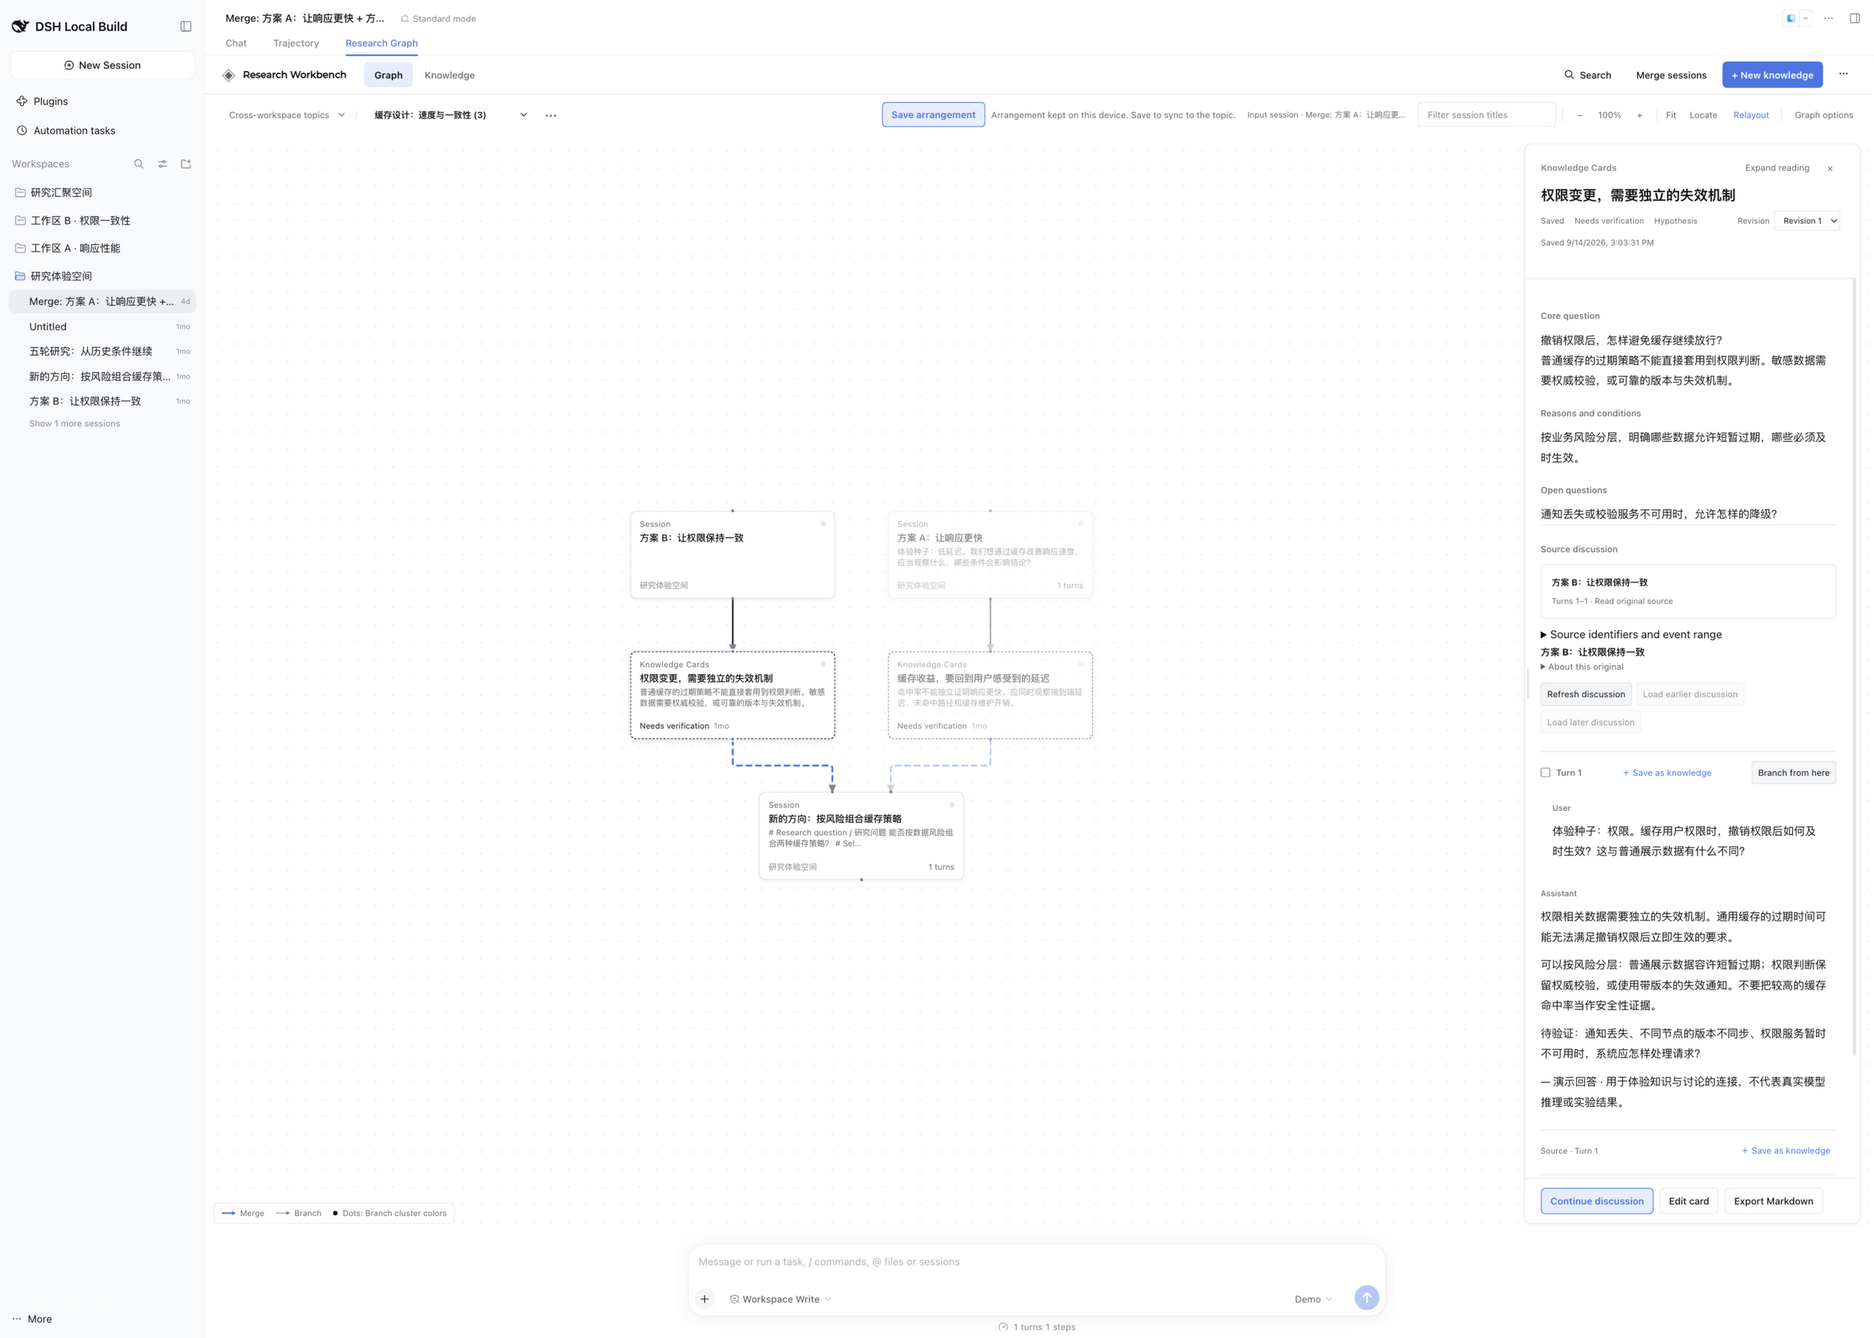
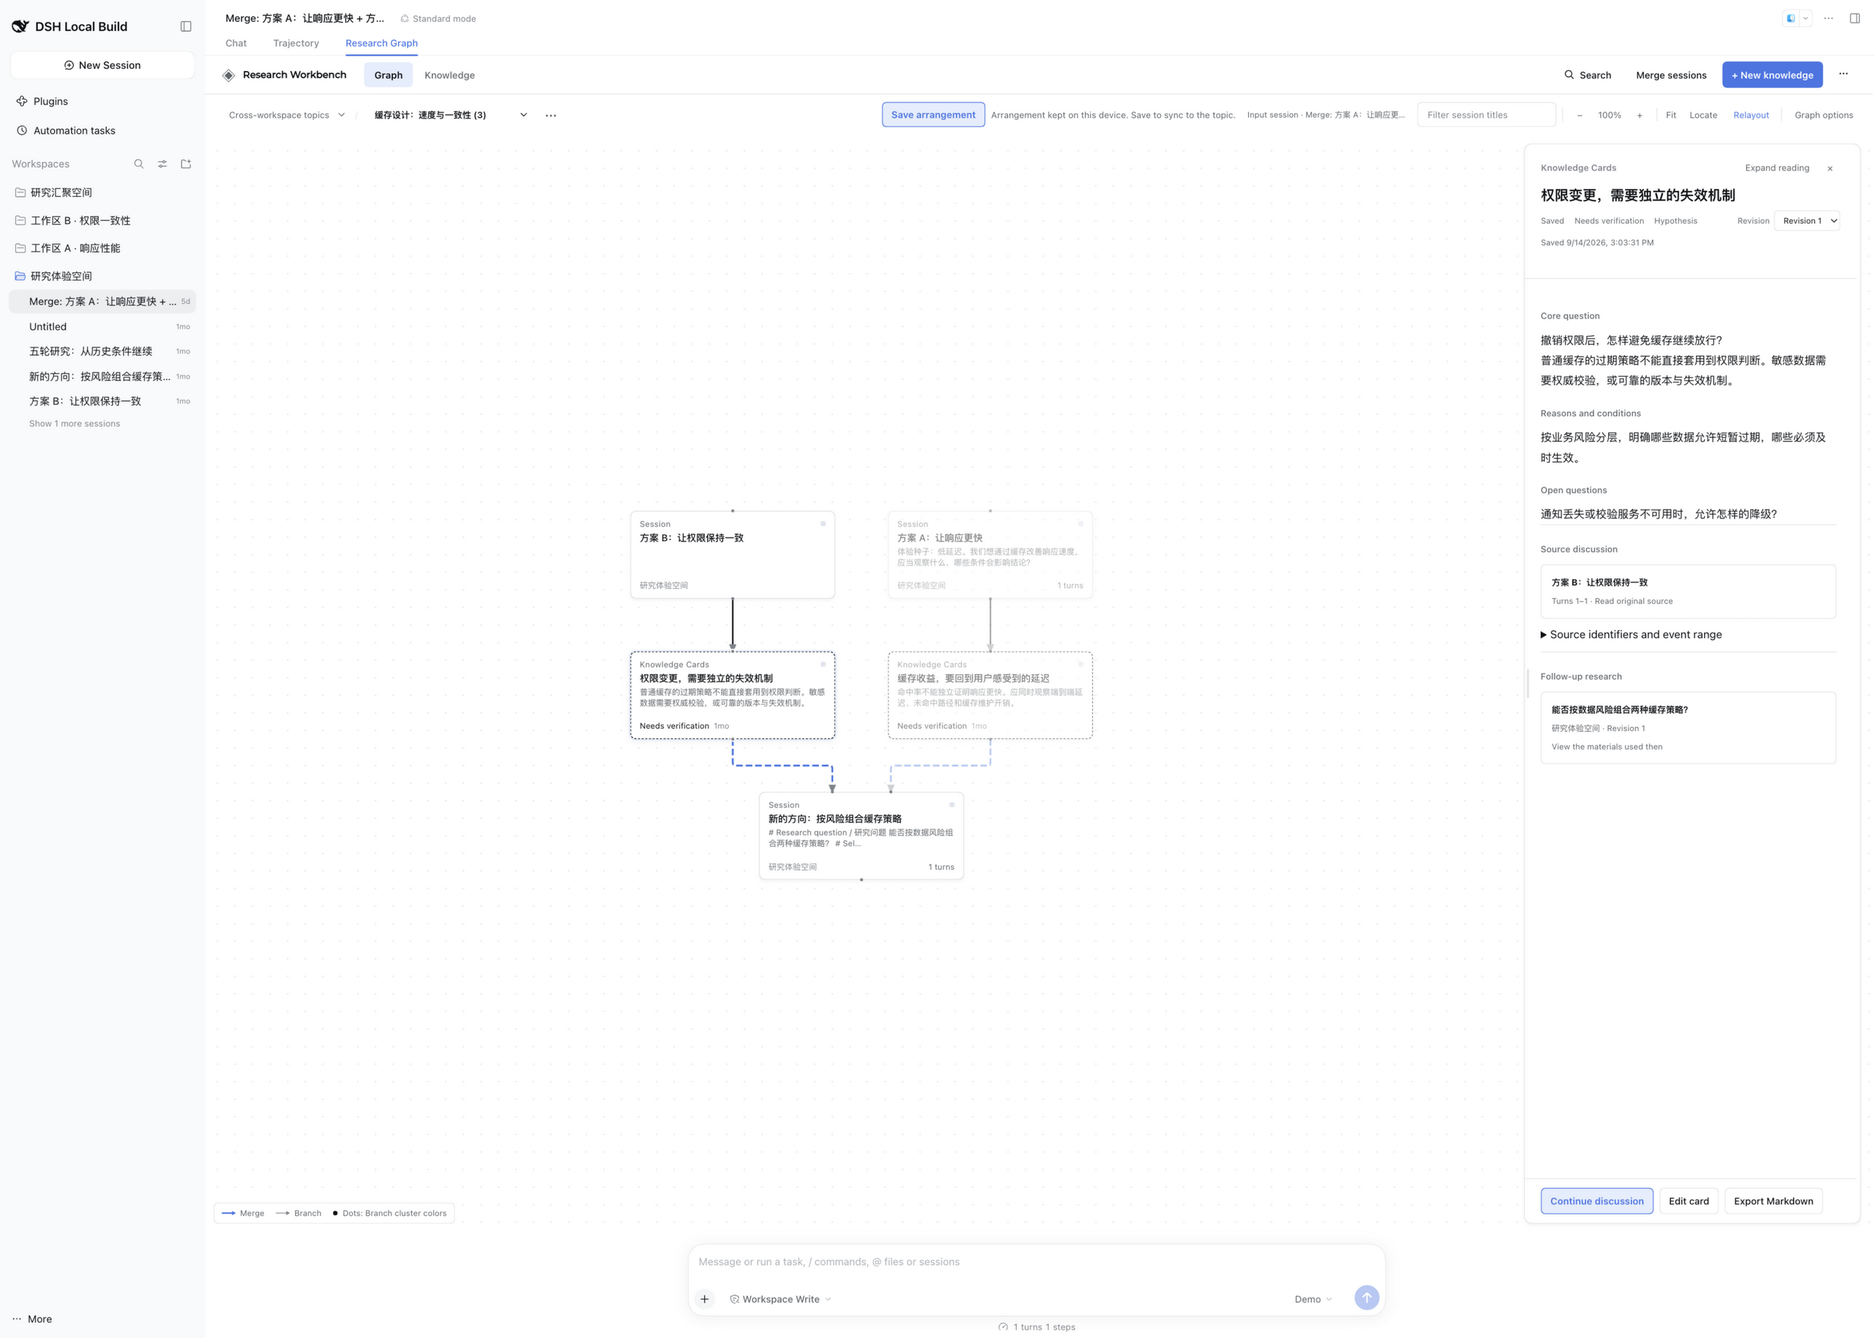
docs: prepare the 0.2.1-rc.1 release notes and screenshot
Point the bilingual READMEs and user guides at plugin 0.2.1-rc.1 on
DSH 0.2.1-rc.1: version tables gain the new row (the 0.2.1-alpha.5 row
drops its current-release note), quick-start and install commands,
host launcher links, and the adaptation paragraph describe this line's
first adaptation with the schemastery range moving to stable ~3.18.5.
Re-capture the README workbench hero on this build (2560x1828,
cross-workspace topic graph with a knowledge card reading panel) and
add the release acceptance record.

Changed region(s): [[0.8125, 0.5925, 1.0, 0.8419], [0.8125, 0.4677, 0.9062, 0.5613]]

diff --git a/docs/user-guide.md b/docs/user-guide.md
@@ -15,10 +15,10 @@ Detailed installation, research workflows, troubleshooting, and limits for DSH R
 
 ## Quick start
 
-Requires **DeepSeek Harness 0.2.1-alpha.5**, Node.js `^22.19.0 || >=24.0.0`, and `pnpm` on your `PATH`. Research Graph runs as a plugin inside DSH Web; check [Compatibility](#compatibility) before installing on another Host version. These commands assume `dsh` is on your `PATH`; see [Install](#install) for `npx` and source-checkout commands. Stop any running `dsh web` before installing.
+Requires **DeepSeek Harness 0.2.1-rc.1**, Node.js `^22.19.0 || >=24.0.0`, and `pnpm` on your `PATH`. Research Graph runs as a plugin inside DSH Web; check [Compatibility](#compatibility) before installing on another Host version. These commands assume `dsh` is on your `PATH`; see [Install](#install) for `npx` and source-checkout commands. Stop any running `dsh web` before installing.
 
 ```sh
-dsh plugin --profile web add @benz-ai-x/dsh-research-graph@0.2.1-alpha.5
+dsh plugin --profile web add @benz-ai-x/dsh-research-graph@0.2.1-rc.1
 dsh web
 ```
 
@@ -28,7 +28,7 @@ Open the one-time authenticated URL printed by the command; do not share its tok
 2. Select a node, read **Original**, and choose **Save as knowledge** on a completed turn.
 3. Open the saved card in **Knowledge**, inspect its sources, and choose **Continue discussion** to preview the materials for another question.
 
-Current plugin **0.2.1-alpha.5** uses npm tag `next`; the pinned command avoids installing an incompatible older package. See [Install and upgrade](#install) for local archives and migration from the previous package name.
+Current plugin **0.2.1-rc.1** uses npm tag `next`; the pinned command avoids installing an incompatible older package. See [Install and upgrade](#install) for local archives and migration from the previous package name.
 
 ## Research workflow
 
@@ -59,9 +59,9 @@ Source discovery and tool execution come from your selected DSH environment. Res
 
 | Package release | DeepSeek Harness | Node.js | Verification |
 |---|---|---|---|
-| `@benz-ai-x/dsh-research-graph@0.2.1-alpha.5` | `0.2.1-alpha.5` | `^22.19.0 \|\| >=24.0.0` | Real Host/Client types, integration tests and packed-profile runtime acceptance |
+| `@benz-ai-x/dsh-research-graph@0.2.1-rc.1` | `0.2.1-rc.1` | `^22.19.0 \|\| >=24.0.0` | Real Host/Client types, integration tests and packed-profile runtime acceptance |
 
-Current prerelease **0.2.1-alpha.5** targets **DSH 0.2.1-alpha.5**: the first adaptation of this DSH line, so the plugin takes the full target version and every pinned `@deepseek-ai/dsh-*` dependency follows it. This is a compatibility release with no user-facing feature change: it carries the Host-contract adaptation (historical Branch adoption through `agents.resume`, Gateway owner-Peer invocations) and absorbs upstream's additive changes between alpha.2 and alpha.5 without touching the research-data model, persistence schema, canvas geometry, or Host service behavior. See the [release acceptance record](reviews/release-0.2.1-alpha.5.md) for official-package verification and known limitations.
+Current prerelease **0.2.1-rc.1** targets **DSH 0.2.1-rc.1**: the first adaptation of this DSH line, so the plugin takes the full target version and every pinned `@deepseek-ai/dsh-*` dependency follows it (`@deepseek-ai/schemastery` moves to the stable `~3.18.5` range upstream now declares). This is a compatibility release with no user-facing change: upstream's alpha.5→rc.1 delta is its release commit plus the vendor line moving to stable, with no source change. It carries the earlier Host-contract adaptation (historical Branch adoption through `agents.resume`, Gateway owner-Peer invocations) unchanged; the research-data model, persistence schema, canvas geometry, and Host service behavior are untouched. See the [release acceptance record](reviews/release-0.2.1-rc.1.md) for official-package verification and known limitations.
 
 In the DSH-aligned release line, the first plugin adaptation uses the full target DSH version. Further plugin releases for the same DSH prerelease append one positive revision number: plugin `0.1.5-rc.2.1` targets DSH `0.1.5-rc.2`, followed by plugin `0.1.5-rc.2.2`. Direct DSH dependencies retain the target DSH version. The previous package is `@benz-ai-x/dsh-client-ui-session-graph`; its tags and artifacts keep that name.
 
@@ -201,16 +201,16 @@ Confirming creates an independent Session and sends the frozen preview through n
 
 ## Install
 
-The [DSH plugin manager](https://github.com/deepseek-ai/deepseek-harness/blob/dsh-v0.2.1-alpha.5/apps/cli/reference/README.md#plugin-management) invokes `pnpm`, which must be on your `PATH`. Use the launcher for your matching DSH installation throughout the commands below:
+The [DSH plugin manager](https://github.com/deepseek-ai/deepseek-harness/blob/dsh-v0.2.1-rc.1/apps/cli/reference/README.md#plugin-management) invokes `pnpm`, which must be on your `PATH`. Use the launcher for your matching DSH installation throughout the commands below:
 
 - Installed CLI: use `dsh`.
-- npm launcher: replace `dsh` with `npx @deepseek-ai/dsh@0.2.1-alpha.5`.
-- Source checkout: build the `dsh-v0.2.1-alpha.5` checkout using the [upstream setup](https://github.com/deepseek-ai/deepseek-harness/blob/dsh-v0.2.1-alpha.5/README.md#run-from-source), run from that checkout, and replace `dsh` with `pnpm dsh`.
+- npm launcher: replace `dsh` with `npx @deepseek-ai/dsh@0.2.1-rc.1`.
+- Source checkout: build the `dsh-v0.2.1-rc.1` checkout using the [upstream setup](https://github.com/deepseek-ai/deepseek-harness/blob/dsh-v0.2.1-rc.1/README.md#run-from-source), run from that checkout, and replace `dsh` with `pnpm dsh`.
 
 Install the published npm package into the `web` profile:
 
 ```sh
-dsh plugin --profile web add @benz-ai-x/dsh-research-graph@0.2.1-alpha.5
+dsh plugin --profile web add @benz-ai-x/dsh-research-graph@0.2.1-rc.1
 ```
 
 Confirm that the resolved profile contains the bundle:
@@ -227,7 +227,7 @@ The product is now **DSH Research Graph · 研图**, and the repository is `benz
 
 ```sh
 dsh plugin --profile web remove @benz-ai-x/dsh-client-ui-session-graph
-dsh plugin --profile web add @benz-ai-x/dsh-research-graph@0.2.1-alpha.5
+dsh plugin --profile web add @benz-ai-x/dsh-research-graph@0.2.1-rc.1
 dsh web
 ```
 
@@ -245,7 +245,7 @@ dsh plugin --profile web remove @benz-ai-x/dsh-research-graph
 
 Restart the target `web` profile after installation or removal. A running process does not watch its profile dependency list.
 
-Session, LLM, and browser runtime services remain owned by the selected dsh profile. The plugin declares its Typert protocol dependency explicitly, with the matching LLM as a peer dependency. The offline recovery command bundles its format catalog and libraries so it also works before the Host starts. All directly referenced `@deepseek-ai/dsh-*` packages are pinned to the target DSH version (`0.2.1-alpha.5` for plugin `0.2.1-alpha.5`).
+Session, LLM, and browser runtime services remain owned by the selected dsh profile. The plugin declares its Typert protocol dependency explicitly, with the matching LLM as a peer dependency. The offline recovery command bundles its format catalog and libraries so it also works before the Host starts. All directly referenced `@deepseek-ai/dsh-*` packages are pinned to the target DSH version (`0.2.1-rc.1` for plugin `0.2.1-rc.1`).
 
 ## Use the graph
 
@@ -317,7 +317,7 @@ See the [discussion search browser acceptance record and screenshots](reviews/pr
 <a id="enable-discussion-search"></a>
 ### Enable discussion search
 
-DSH `0.2.1-alpha.5` disables full-text indexing by default. If Research Graph reports **Full-text indexing is not enabled**, add this override to the active profile's `cordis.patch.yml` (for the web profile, `$DSH_HOME/profiles/web/cordis.patch.yml`):
+DSH `0.2.1-rc.1` disables full-text indexing by default. If Research Graph reports **Full-text indexing is not enabled**, add this override to the active profile's `cordis.patch.yml` (for the web profile, `$DSH_HOME/profiles/web/cordis.patch.yml`):
 
 ```yaml
 - id: session-query-sqlite

diff --git a/docs/reviews/release-0.2.1-rc.1.md b/docs/reviews/release-0.2.1-rc.1.md
@@ -1,0 +1,32 @@
+# DSH Research Graph 0.2.1-rc.1 release acceptance
+
+This is the first adaptation of the DSH `0.2.1-rc.1` line: per the release policy the plugin takes the full target version (`0.2.1-rc.1`) and every direct `@deepseek-ai/dsh-*` dependency follows it. It is a pure compatibility release: upstream's `dsh-v0.2.1-alpha.5..dsh-v0.2.1-rc.1` delta is the release commit plus the vendor line moving to stable — 355 files change exactly one version line each and no source file moves — so the plugin needed no code adaptation, carried over from [PR #70](https://github.com/benz-ai-x/dsh-research-graph/pull/70) as merged (see below) with only pins and documentation updated.
+
+Version pins: `@deepseek-ai/schemastery` follows the published range to the stable `~3.18.5` (upstream declared `~3.18.5-alpha.2` through alpha.5); `@deepseek-ai/cordis` stays `^4.0.2`, which now resolves to stable 4.0.5. The earlier Host-contract adaptations of the 0.2.1 line (historical Branch adoption through `agents.resume` with the Host default model selection, Gateway owner-Peer invocations, persistence-jsonl namespace imports, compiler-face declaration fixes) are unchanged; the research-data model, persistence schema, canvas geometry, and Host service behavior are untouched.
+
+## Compatibility and scope
+
+- Plugin: `@benz-ai-x/dsh-research-graph@0.2.1-rc.1`; tag `v0.2.1-rc.1`; npm dist-tag `next` (`latest` stays `0.1.5-rc.1`).
+- Target: official DSH `dsh-v0.2.1-rc.1`, commit `1600d8a1e1` (native/lib/web rebuilt at the tag; build artifacts verified newer than the tag commit).
+- Base: main `02fb755` (merge of [PR #70](https://github.com/benz-ai-x/dsh-research-graph/pull/70), merged on the user's instruction; tree identical to the accepted head `989ad57`; post-merge main CI passed).
+- The 0.2.1-rc.1 packages were published 2026-10-17 02:56 UTC, inside the 24h pnpm supply-chain window, so `ci.yml`/`publish.yml` temporarily carry `pnpm_config_minimum_release_age=0` (remove after 2026-10-18 02:56 UTC); local commands ran with the same override.
+- The README workbench screenshot was re-captured on this build (2560×1828, cross-workspace topic graph with a knowledge card reading panel) per release-line practice.
+
+## Validation
+
+- `RELEASE_TAG=v0.2.1-rc.1 pnpm run check`: version policy, strict types, build, **235 tests / 25 files** passed.
+- `DSH_HARNESS_ROOT` `pnpm check:harness` against `dsh-v0.2.1-rc.1`: all four compiler faces and **350 tests / 23 files** passed — first-round green with no source or fixture change.
+- Real-browser isolated preview on the official `dsh-v0.2.1-rc.1` Host: badge `Research Graph v0.2.1-rc.1 · local-7592b188`; the workspace graph renders retained demo data, and the cross-workspace topic graph with a knowledge card reading panel renders for the README hero.
+- The candidate archive passed the isolated packed-profile acceptance: install, offline recovery before Host boot, historical Branch continuation, reviewed synthesis/extraction, acknowledged reuse, frozen export, read-only insights, native title rename, and removal, with **19 deterministic fixture model calls** (`durableMerge: true` among the checks).
+- Candidate archive: **515882 bytes**, SHA-256 `84d6bbbe…`, version `0.2.1-rc.1` on DSH `0.2.1-rc.1`.
+
+## Published artifact
+
+- [Release](https://github.com/benz-ai-x/dsh-research-graph/releases/tag/v0.2.1-rc.1) on the merged tag; the merge-commit main CI passed and the OIDC Publish succeeded.
+- npm dist-tags after publish: `next` = `0.2.1-rc.1`, `latest` stays `0.1.5-rc.1`.
+- The official archive (packed by CI so its bytes differ from the local candidate as in every previous release) passed the same isolated packed-profile acceptance independently; registry integrity and SLSA provenance were verified against `registry.npmjs.org`.
+- Release attachments (official archive + `SHA256SUMS`) were uploaded and read back; archived locally under `.artifacts/release-0.2.1-rc.1/official/`.
+
+## Acceptance boundary
+
+This release changes no research-data model, persistence schema, canvas geometry, or Host service behavior; the 0.2.0-rc.2.1 geometry guarantees and all existing arrangement/fit/relayout semantics are unchanged. The deferred items from previous rounds remain: reasoning-effort choice at merge time, very-large-context merges subject to the Host reference budget, and the two structured research-direction requirements in [Issue #32](https://github.com/benz-ai-x/dsh-research-graph/issues/32).

diff --git a/README.md b/README.md
@@ -43,7 +43,7 @@ flowchart LR
   </a>
 </p>
 
-Version 0.2.1-alpha.5 with demo data. Click the image for the full-resolution screenshot.
+Version 0.2.1-rc.1 with demo data. Click the image for the full-resolution screenshot.
 
 <a id="features"></a>
 <a id="what-it-adds"></a>
@@ -66,8 +66,8 @@ Version 0.2.1-alpha.5 with demo data. Click the image for the full-resolution sc
 
 | Item | Details |
 | --- | --- |
-| Plugin release | [0.2.1-alpha.5](https://github.com/benz-ai-x/dsh-research-graph/releases/tag/v0.2.1-alpha.5), npm `next` |
-| Required Host | **DSH 0.2.1-alpha.5 · Web**, Node.js `^22.19.0 \|\| >=24.0.0` |
+| Plugin release | [0.2.1-rc.1](https://github.com/benz-ai-x/dsh-research-graph/releases/tag/v0.2.1-rc.1), npm `next` |
+| Required Host | **DSH 0.2.1-rc.1 · Web**, Node.js `^22.19.0 \|\| >=24.0.0` |
 | Data | Research records live on the DSH Host; working positions stay in the browser and Topic arrangements require explicit saving |
 | Model calls | Browsing, manual capture, and export make no model call; AI generation and new discussions use models on demand |
 | Agent capabilities | DSH provides models, tools, presets, and agent execution; this plugin includes no preset or Agent Team launcher. [Details](docs/user-guide.md#dsh-and-agent-presets) |
@@ -77,10 +77,10 @@ Version 0.2.1-alpha.5 with demo data. Click the image for the full-resolution sc
 
 ## Quick start
 
-Requires **DSH 0.2.1-alpha.5**, with both `dsh` and `pnpm` on your `PATH`. Stop any running `dsh web`, then run:
+Requires **DSH 0.2.1-rc.1**, with both `dsh` and `pnpm` on your `PATH`. Stop any running `dsh web`, then run:
 
 ```sh
-dsh plugin --profile web add @benz-ai-x/dsh-research-graph@0.2.1-alpha.5
+dsh plugin --profile web add @benz-ai-x/dsh-research-graph@0.2.1-rc.1
 dsh web
 ```
 
@@ -94,7 +94,8 @@ Every npm release of the current package name, with its required DSH Host (taken
 
 | Plugin release | Required DSH | Notes |
 | --- | --- | --- |
-| `0.2.1-alpha.5` | `0.2.1-alpha.5` | Current release (compatibility adaptation), npm `next` |
+| `0.2.1-rc.1` | `0.2.1-rc.1` | Current release (compatibility adaptation), npm `next` |
+| `0.2.1-alpha.5` | `0.2.1-alpha.5` | |
 | `0.2.1-alpha.2.1` | `0.2.1-alpha.2` | Merge model selection and rename fix |
 | `0.2.1-alpha.2` | `0.2.1-alpha.2` | |
 | `0.2.1-alpha.1` | `0.2.1-alpha.1` | |
@@ -118,4 +119,4 @@ Releases up to `0.1.5-rc.1` were also published under the previous package name 
 
 ## Docs and support
 
-[User guide](docs/user-guide.md) · [Troubleshooting](docs/user-guide.md#troubleshooting) · [Development and release](docs/development.md) · [Release acceptance](docs/reviews/release-0.2.1-alpha.5.md) · [Report an issue](https://github.com/benz-ai-x/dsh-research-graph/issues)
+[User guide](docs/user-guide.md) · [Troubleshooting](docs/user-guide.md#troubleshooting) · [Development and release](docs/development.md) · [Release acceptance](docs/reviews/release-0.2.1-rc.1.md) · [Report an issue](https://github.com/benz-ai-x/dsh-research-graph/issues)

diff --git a/README.zh.md b/README.zh.md
@@ -43,7 +43,7 @@ flowchart LR
   </a>
 </p>
 
-0.2.1-alpha.5 的真实界面（演示数据），点击图片查看高清原图。
+0.2.1-rc.1 的真实界面（演示数据），点击图片查看高清原图。
 
 <a id="核心能力"></a>
 
@@ -65,8 +65,8 @@ flowchart LR
 
 | 项目 | 说明 |
 | --- | --- |
-| 当前插件 | [0.2.1-alpha.5](https://github.com/benz-ai-x/dsh-research-graph/releases/tag/v0.2.1-alpha.5)，npm `next` |
-| 适配宿主 | **DSH 0.2.1-alpha.5 · Web**，Node.js `^22.19.0 \|\| >=24.0.0` |
+| 当前插件 | [0.2.1-rc.1](https://github.com/benz-ai-x/dsh-research-graph/releases/tag/v0.2.1-rc.1)，npm `next` |
+| 适配宿主 | **DSH 0.2.1-rc.1 · Web**，Node.js `^22.19.0 \|\| >=24.0.0` |
 | 数据保存 | 研究数据保存在 DSH Host；工作位置保存在浏览器，主题排列需显式保存 |
 | 模型调用 | 浏览、手工留卡、导出不调用模型；AI 生成与新讨论按需调用 |
 | Agent 能力 | 模型、工具、预设与 Agent 执行由 DSH 提供；插件不内置预设或 Agent Team 启动器。[详细说明](docs/user-guide.zh.md#dsh-与-agent-预设) |
@@ -76,10 +76,10 @@ flowchart LR
 
 ## 快速开始
 
-需要 **DSH 0.2.1-alpha.5**，并确保 `dsh`、`pnpm` 均在 `PATH` 中。如有正在运行的 `dsh web`，先停止，再执行：
+需要 **DSH 0.2.1-rc.1**，并确保 `dsh`、`pnpm` 均在 `PATH` 中。如有正在运行的 `dsh web`，先停止，再执行：
 
 ```sh
-dsh plugin --profile web add @benz-ai-x/dsh-research-graph@0.2.1-alpha.5
+dsh plugin --profile web add @benz-ai-x/dsh-research-graph@0.2.1-rc.1
 dsh web
 ```
 
@@ -93,7 +93,8 @@ dsh web
 
 | 插件版本 | 要求的 DSH | 备注 |
 | --- | --- | --- |
-| `0.2.1-alpha.5` | `0.2.1-alpha.5` | 当前版本（兼容性适配），npm `next` |
+| `0.2.1-rc.1` | `0.2.1-rc.1` | 当前版本（兼容性适配），npm `next` |
+| `0.2.1-alpha.5` | `0.2.1-alpha.5` | |
 | `0.2.1-alpha.2.1` | `0.2.1-alpha.2` | 汇聚模型选择与改名修复 |
 | `0.2.1-alpha.2` | `0.2.1-alpha.2` | |
 | `0.2.1-alpha.1` | `0.2.1-alpha.1` | |
@@ -117,4 +118,4 @@ dsh web
 
 ## 文档与支持
 
-[使用指南](docs/user-guide.zh.md) · [故障排查](docs/user-guide.zh.md#故障排查) · [开发与发布](docs/development.zh.md) · [发布验收](docs/reviews/release-0.2.1-alpha.5.md) · [问题反馈](https://github.com/benz-ai-x/dsh-research-graph/issues)
+[使用指南](docs/user-guide.zh.md) · [故障排查](docs/user-guide.zh.md#故障排查) · [开发与发布](docs/development.zh.md) · [发布验收](docs/reviews/release-0.2.1-rc.1.md) · [问题反馈](https://github.com/benz-ai-x/dsh-research-graph/issues)
